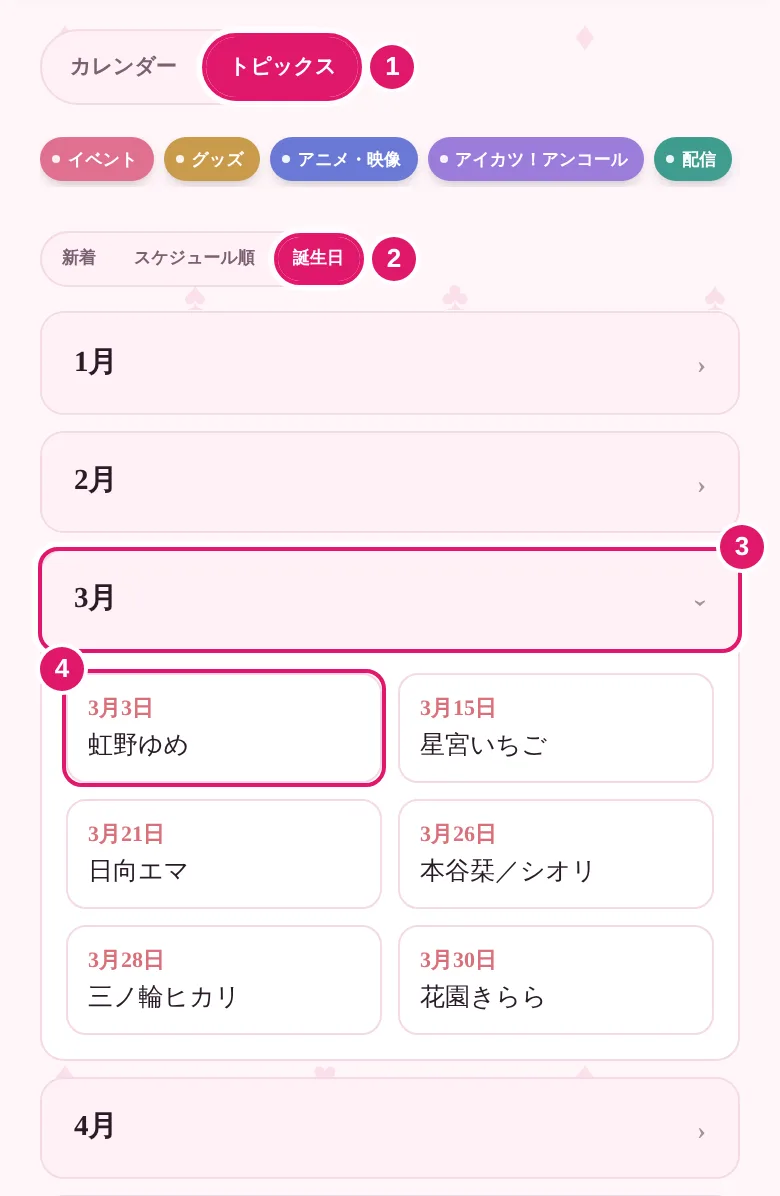
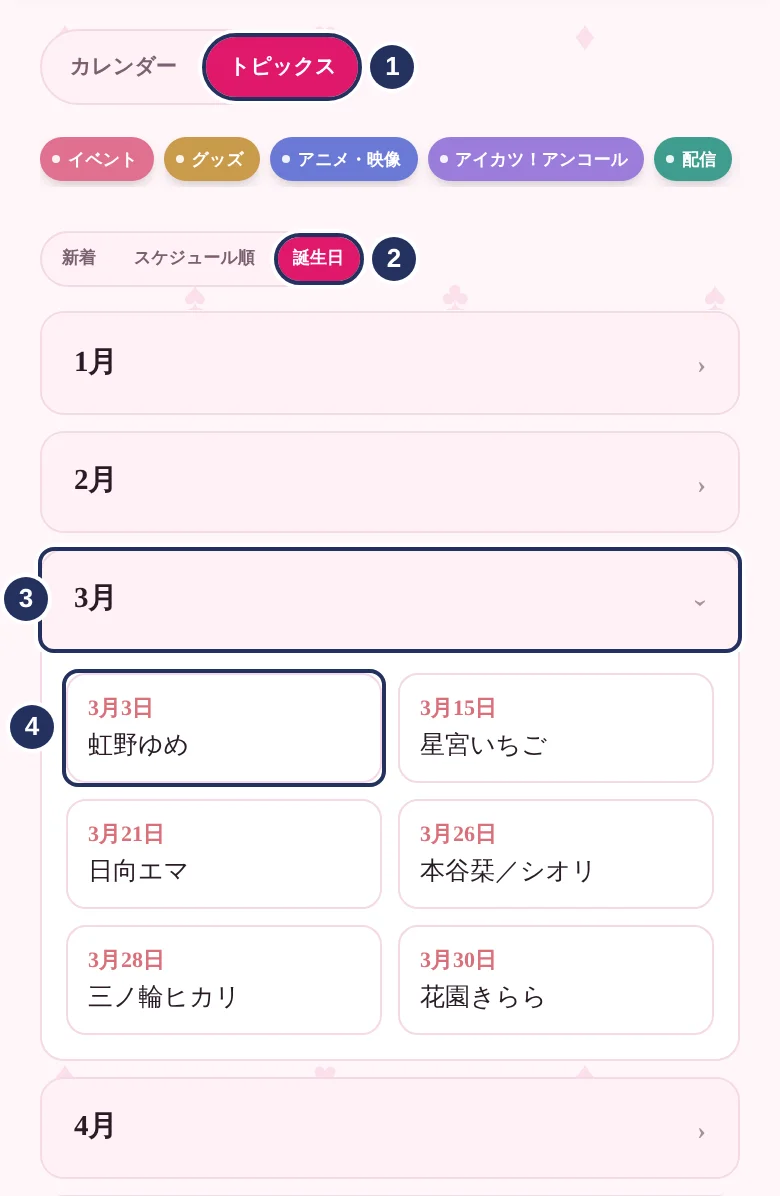
使い方ページの図解を撮り直し、番号の付け方を分かりやすく変更
- 番号は1か所に1つにし、指す場所に重ねず外側に置く
- 印の色をサイトのピンクと区別できる濃い紺に変更
- 囲む範囲を点・件数・今日の丸など見せたい部分だけに絞る
- カレンダーの図を上部の操作とマス目の2枚に分けて拡大

Claude-Session: https://claude.ai/code/session_0144vL8na9zcnHeynjBw35UU

diff --git a/tools/usage-capture/cap-static.js b/tools/usage-capture/cap-static.js
@@ -6,45 +6,36 @@ const top = async (p, sel, off=70) => { await p.evaluate(([s,o])=>{ const e=docu
 (async () => {
   const b = await chromium.launch();
   const { p } = await newPage(b);
-  // A: overview
+  // C: カレンダー上部の操作（1つずつ番号を付ける）
+  await tagCell(p, 14, 'um14'); await tagCell(p, 15, 'um15'); await tagCell(p, 19, 'um19'); await tagCell(p, 17, 'um17'); await tagCell(p, 20, 'um20'); await tagCell(p, 28, 'um28');
+  await top(p, '.cal-nav-row', 110);
+  await p.evaluate(()=>{ document.getElementById('legendCal').style.visibility='hidden'; });
   await mark(p, [
-    {sel:'#todayBadges .today-pill', n:1, pad:3, round:true}, {sel:'#searchToggleBtn', n:2, round:true, pad:3, corner:'bl'}, {sel:'#menuBtn', n:3, round:true, pad:3, corner:'bl'},
-    {sel:'#brandHome', n:4}, {sel:'#lastUpdated', n:5, pad:3}, {sel:'#mainTabs', n:6, round:true}, {sel:'#exportOpenBtn', n:7, round:true}, {sel:'#legendCal', n:8, pad:3},
+    {sel:'#prevMonth', n:1, pad:0, round:true, corner:'t'}, {sel:'#calMonthLabel', n:2, pad:2, corner:'t'},
+    {sel:'#nextMonth', n:3, pad:0, round:true, corner:'t'}, {sel:'.cal-view-toggle', n:4, round:true, pad:2, corner:'t'},
   ]);
-  await p.screenshot({path:O+'/overview.png', clip:{x:0,y:0,width:390,height:340}});
+  const nv = await p.evaluate(()=>{ const a=document.querySelector('.cal-nav-row').getBoundingClientRect(), l=document.getElementById('prevMonth').getBoundingClientRect(); return {x:l.left-16, y:a.top-36, h:a.height+48}; });
+  await p.screenshot({path:O+'/calendar-nav.png', clip:{x:nv.x,y:nv.y,width:390-nv.x,height:nv.h}});
   await clear(p);
-  // B: menu
-  await p.click('#menuBtn'); await p.waitForTimeout(400);
-  await p.screenshot({path:O+'/menu.png', clip:{x:0,y:0,width:390,height:560}});
-  await p.keyboard.press('Escape'); await p.waitForTimeout(200);
-  // C: calendar
-  await tagCell(p, 8, 'umDots'); await tagCell(p, 28, 'umBday');
-  await top(p, '.cal-nav-row', 60);
+  await p.evaluate(()=>{ document.getElementById('legendCal').style.visibility=''; });
+  // C2: カレンダーのマス（火〜土の下3週を切り出して大きく見せる）
+  await top(p, '#um15', 120);
   await mark(p, [
-    {sel:'#prevMonth', n:1, pad:0, round:true, corner:'l'}, {sel:'#nextMonth', n:1, pad:0, round:true, corner:'r'}, {sel:'#calMonthLabel', n:2, pad:2},
-    {sel:'.cal-view-toggle', n:3, round:true, pad:3}, {sel:'#umDots', n:4, pad:-1}, {sel:'#umBday', n:5, pad:-1},
+    {sel:'#um14 .dots', n:1, pad:3, text:true, round:true, corner:'r'}, {sel:'#um17 .more', n:2, pad:2, text:true, corner:'r', dy:4},
+    {sel:'#um20 .dot-emoji-mini', n:3, pad:2, corner:'l'}, {sel:'#um28 .num', n:4, pad:2, round:true, corner:'l'},
   ]);
-  const g = await p.evaluate(()=>{ const a=document.querySelector('.cal-nav-row').getBoundingClientRect(), z=document.querySelector('.cal-grid').getBoundingClientRect(); return {y:a.top-14, h:z.bottom-a.top+28}; });
-  await p.screenshot({path:O+'/calendar.png', clip:{x:0,y:g.y,width:390,height:g.h}});
+  const gr = await p.evaluate(()=>{ const c=document.querySelector('#um19').getBoundingClientRect(), t=document.querySelector('#um15').getBoundingClientRect(), b=document.querySelector('#um28').getBoundingClientRect(), g=document.querySelector('.cal-grid').getBoundingClientRect(); return {x:c.left-6, y:t.top-6, w:g.right-c.left+6, h:b.bottom-t.top+12}; });
+  await p.screenshot({path:O+'/calendar-grid.png', clip:{x:gr.x,y:gr.y,width:gr.w,height:gr.h}});
   await clear(p);
-  // D: day panel + item detail (gashapon reservation on 10/20)
-  await tagCell(p, 20, 'um20'); await p.click('#um20'); await p.waitForTimeout(200);
-  const it = p.locator('#dayPanelBody .item').filter({hasText:'予約開始'}).first();
-  await it.locator('.item-head').click(); await p.waitForTimeout(200);
-  await top(p, '#dayPanel', 64);
-  await p.evaluate(()=>{ const i=[...document.querySelectorAll('#dayPanelBody .item')].find(x=>x.textContent.includes('予約開始')); i.id='umItem'; });
-  await mark(p, [
-    {sel:'#umItem .cat', n:1, pad:3}, {sel:'#umItem .eventline', n:2, pad:3}, {sel:'#umItem .add-cal-toggle', n:3, round:true, pad:3, corner:'l'}, {sel:'#umItem .src', n:4, pad:3, corner:'l'},
-  ]);
-  const d = await p.evaluate(()=>{ const r=document.getElementById('umItem').getBoundingClientRect(), h=document.getElementById('dayPanel').getBoundingClientRect(); return {y:h.top-8, h:r.bottom-h.top+18}; });
-  await p.screenshot({path:O+'/item.png', clip:{x:0,y:d.y,width:390,height:d.h}});
-  await clear(p);
-  // E: topics (新着)
+  // E: トピックス（新着）
   await p.click('#tab-topics-btn'); await p.waitForTimeout(200);
   await top(p, '.tabs-row', 60);
-  await mark(p, [ {sel:'#legendTopics', n:1, pad:3}, {sel:'.topics-toolbar .sort-toggle', n:2, round:true, pad:3}, {sel:'#topicsPaginationTop', n:3, pad:2}, {sel:'#topicsList .new-badge', n:4, pad:2, corner:'r'} ]);
-  const t = await p.evaluate(()=>document.querySelector('.tabs-row').getBoundingClientRect().top-12);
-  await p.screenshot({path:O+'/topics.png', clip:{x:0,y:t,width:390,height:640}});
+  await mark(p, [
+    {sel:'#legendTopics', n:1, pad:2, corner:'tre'}, {sel:'.topics-toolbar .sort-toggle', n:2, round:true, pad:2, corner:'r'},
+    {sel:'#topicsPaginationTop', n:3, pad:2, corner:'l'}, {sel:'#topicsList .new-badge', n:4, pad:2, round:true, corner:'r'},
+  ]);
+  const t = await p.evaluate(()=>{ const a=document.querySelector('.tabs-row').getBoundingClientRect(), n=document.querySelector('#topicsList .new-badge').closest('.item').getBoundingClientRect(); return {y:a.top-12, h:n.bottom-a.top+16}; });
+  await p.screenshot({path:O+'/topics.png', clip:{x:0,y:t.y,width:390,height:t.h}});
   await clear(p);
   // F: birthday（トピックス→誕生日→月を開く、の流れが分かるようタブから写す）
   await p.click('#sortBirthdayBtn'); await p.waitForTimeout(200);
@@ -52,17 +43,17 @@ const top = async (p, sel, off=70) => { await p.evaluate(([s,o])=>{ const e=docu
   await top(p, '.tabs-row', 62);
   await mark(p, [
     {sel:'#tab-topics-btn', n:1, pad:2, round:true, corner:'r'}, {sel:'#sortBirthdayBtn', n:2, pad:2, round:true, corner:'r'},
-    {sel:'#umMar summary', n:3, pad:2, corner:'tr'}, {sel:'#umMar .bday-card', n:4, pad:2, corner:'tl'},
+    {sel:'#umMar summary', n:3, pad:2, corner:'l'}, {sel:'#umMar .bday-card', n:4, pad:2, corner:'l'},
   ]);
   const bt = await p.evaluate(()=>{ const a=document.querySelector('.tabs-row').getBoundingClientRect(), m=document.getElementById('umMar').nextElementSibling.getBoundingClientRect(); return {y:a.top-14, h:m.bottom-a.top+24}; });
   await p.screenshot({path:O+'/birthday.png', clip:{x:0,y:bt.y,width:390,height:bt.h}});
   // G: export dialog
   await p.click('#tab-cal-btn'); await p.click('#exportOpenBtn'); await p.waitForTimeout(200);
-  await mark(p, [ {sel:'#exportPresets', n:1, round:true, pad:3}, {sel:'.export-range', n:2, pad:3}, {sel:'#exportCats', n:3, pad:3}, {sel:'.export-checks', n:4, pad:3}, {sel:'#exportCount', n:5, pad:3}, {sel:'#exportDownloadBtn', n:6, round:true, pad:3, corner:'tl'} ]);
+  await mark(p, [ {sel:'#exportPresets', n:1, round:true, pad:2, corner:'l'}, {sel:'.export-range', n:2, pad:2, corner:'l'}, {sel:'#exportCats', n:3, pad:2, corner:'l'}, {sel:'.export-checks', n:4, pad:2, corner:'l'}, {sel:'#exportCount', n:5, pad:2, corner:'l'}, {sel:'#exportDownloadBtn', n:6, round:true, pad:2, corner:'r'} ]);
   // markers are in body (below the top layer) -> move them into the dialog
   await p.evaluate(()=>{ const dlg=document.getElementById('exportDialog'), r=dlg.getBoundingClientRect(); dlg.style.overflow='visible';
     document.querySelectorAll('.um-ring,.um-num').forEach(e=>{ e.style.left=(parseFloat(e.style.left)-scrollX-r.left-1)+'px'; e.style.top=(parseFloat(e.style.top)-scrollY-r.top-1)+'px'; dlg.appendChild(e); }); });
-  const er = await p.evaluate(()=>{ const r=document.getElementById('exportDialog').getBoundingClientRect(); return {x:r.left-14,y:r.top-14,width:r.width+28,height:r.height+28}; });
+  const er = await p.evaluate(()=>{ const r=document.getElementById('exportDialog').getBoundingClientRect(); return {x:r.left-16,y:r.top-14,width:r.width+32,height:r.height+28}; });
   await p.screenshot({path:O+'/export.png', clip:er});
   await b.close();
 })();

diff --git a/usage.html b/usage.html
@@ -74,7 +74,7 @@
   ol.marks{ list-style:none; margin:0; padding:0; font-size:14px; }
   ol.marks li{ display:flex; gap:10px; padding:5px 0; }
   ol.marks .m{
-    flex:none; width:22px; height:22px; margin-top:2px; border-radius:50%; background:#e0176c; color:#fff;
+    flex:none; width:22px; height:22px; margin-top:2px; border-radius:50%; background:#24315e; color:#fff; box-shadow:0 0 0 2px #fff;
     font-size:12px; font-weight:700; display:inline-flex; align-items:center; justify-content:center;
   }
   .chips{ display:flex; flex-wrap:wrap; gap:6px; margin:4px 0 0; }
@@ -127,24 +127,34 @@
     <h2><span class="num">1</span>カレンダー</h2>
     <div class="fig">
       <figure>
-        <img src="images/usage/calendar.webp" width="780" height="832" alt="カレンダーの各部分に番号を付けた図" loading="lazy">
+        <img src="images/usage/calendar-nav.webp" width="594" height="168" alt="カレンダー上部の操作ボタンに番号を付けた図" loading="lazy">
       </figure>
       <div class="notes">
         <ol class="marks">
-          <li><span class="m">1</span><span>前後の月へ移動</span></li>
+          <li><span class="m">1</span><span>前の月へ</span></li>
           <li><span class="m">2</span><span>押すと年月を選べます</span></li>
-          <li><span class="m">3</span><span>月表示／週表示の切り替え</span></li>
-          <li><span class="m">4</span><span>点の色が予定の種類です
+          <li><span class="m">3</span><span>次の月へ</span></li>
+          <li><span class="m">4</span><span>月表示／週表示の切り替え</span></li>
+        </ol>
+      </div>
+    </div>
+    <div class="fig">
+      <figure>
+        <img src="images/usage/calendar-grid.webp" width="610" height="372" alt="カレンダーの日付のマスに番号を付けた図" loading="lazy">
+      </figure>
+      <div class="notes">
+        <ol class="marks">
+          <li><span class="m">1</span><span>点の色が予定の種類です
             <span class="chips">
               <span class="chip" style="--dot:var(--c-event)">イベント</span>
               <span class="chip" style="--dot:var(--c-goods)">グッズ</span>
               <span class="chip" style="--dot:var(--c-anime)">アニメ・映像</span>
               <span class="chip" style="--dot:var(--c-game)">アイカツ！アンコール</span>
               <span class="chip" style="--dot:var(--c-stream)">配信</span>
-              <span class="chip emoji" style="--dot:var(--c-birthday)">🎂 誕生日</span>
-              <span class="chip emoji" style="--dot:var(--c-anniversary)">🎉 周年</span>
             </span></span></li>
-          <li><span class="m">5</span><span>今日</span></li>
+          <li><span class="m">2</span><span>表示しきれない予定の件数</span></li>
+          <li><span class="m">3</span><span>🎂は誕生日、🎉は周年</span></li>
+          <li><span class="m">4</span><span>今日</span></li>
         </ol>
       </div>
     </div>
@@ -171,7 +181,7 @@
     <p>情報をリストで見られます。</p>
     <div class="fig">
       <figure>
-        <img src="images/usage/topics.webp" width="780" height="1280" alt="トピックス画面の各部分に番号を付けた図" loading="lazy">
+        <img src="images/usage/topics.webp" width="780" height="1048" alt="トピックス画面の各部分に番号を付けた図" loading="lazy">
       </figure>
       <div class="notes">
         <ol class="marks">
@@ -211,7 +221,7 @@
         <video src="images/usage/video-export.mp4" poster="images/usage/video-export-poster.webp" width="600" height="1298" autoplay muted loop playsinline preload="metadata" aria-label="まとめてカレンダーに追加の画面で期間と内容を選んでダウンロードする動画"></video>
       </figure>
       <figure>
-        <img src="images/usage/export.webp" width="760" height="1352" alt="まとめてカレンダーに追加の画面に番号を付けた図" loading="lazy">
+        <img src="images/usage/export.webp" width="768" height="1352" alt="まとめてカレンダーに追加の画面に番号を付けた図" loading="lazy">
       </figure>
       <div class="notes">
         <ol class="marks">

diff --git a/tools/usage-capture/cap-common.js b/tools/usage-capture/cap-common.js
@@ -15,19 +15,23 @@ async function newPage(b, opts={}){
   p.on('pageerror', e=>console.log('PAGEERR', e.message));
   await p.goto(PAGE); await p.waitForSelector('.add-cal',{state:'attached'});
   await p.addStyleTag({content:`
-    .um-ring{position:absolute;border:2.5px solid #e0176c;border-radius:10px;pointer-events:none;z-index:9999;box-shadow:0 0 0 3px rgba(255,255,255,.85)}
-    .um-num{position:absolute;width:22px;height:22px;border-radius:50%;background:#e0176c;color:#fff;font:700 13px/22px "Hiragino Sans",sans-serif;text-align:center;z-index:10000;box-shadow:0 0 0 2px #fff;pointer-events:none}
+    .um-ring{position:absolute;border:2px solid #24315e;border-radius:8px;pointer-events:none;z-index:9999;box-shadow:0 0 0 2px rgba(255,255,255,.9)}
+    .um-num{position:absolute;width:22px;height:22px;border-radius:50%;background:#24315e;color:#fff;font:700 13px/22px "Hiragino Sans",sans-serif;text-align:center;z-index:10000;box-shadow:0 0 0 2px #fff;pointer-events:none}
     .um-tap{position:fixed;width:34px;height:34px;margin:-17px 0 0 -17px;border-radius:50%;background:rgba(224,23,108,.35);border:2px solid rgba(224,23,108,.8);pointer-events:none;z-index:100000;animation:umtap .6s ease-out forwards}
     @keyframes umtap{from{transform:scale(.5);opacity:1}to{transform:scale(1.4);opacity:0}}`});
   return { ctx, p };
 }
-// marks: [{sel, n, pad, nth, corner:'tl'|'tr'|'l'|'r'}]
+// marks: [{sel, n, pad, nth, round, text, corner, dx, dy}]
+// 番号は指す場所に重ねないよう外側に置く。corner: 't'(上中央) 'b'(下中央) 'l'(左) 'r'(右) 'tl' 'tr' 'bl' 'tre'(上・右寄せ)
+// 印の色はサイトのピンクと区別できるよう濃い紺にしている
 async function mark(p, marks){
   await p.evaluate((marks)=>{
     document.querySelectorAll('.um-ring,.um-num').forEach(e=>e.remove());
     marks.forEach(m=>{
       const els=document.querySelectorAll(m.sel); const el=els[m.nth||0]; if(!el){ console.log('nomark',m.sel); return; }
-      const r=el.getBoundingClientRect(), pad=m.pad==null?4:m.pad, sx=scrollX, sy=scrollY;
+      // text:true は要素の幅ではなく文字の部分だけを囲む
+      let r=el.getBoundingClientRect(); if(m.text){ const rg=document.createRange(); rg.selectNodeContents(el); r=rg.getBoundingClientRect(); }
+      const pad=m.pad==null?4:m.pad, sx=scrollX, sy=scrollY;
       const ring=document.createElement('div'); ring.className='um-ring';
       Object.assign(ring.style,{left:(r.left-pad+sx)+'px',top:(r.top-pad+sy)+'px',width:(r.width+pad*2)+'px',height:(r.height+pad*2)+'px'});
       if(m.round) ring.style.borderRadius='999px';
@@ -36,6 +40,9 @@ async function mark(p, marks){
       if(c==='tl'){x=r.left-pad-11;y=r.top-pad-11} else if(c==='tr'){x=r.right+pad-11;y=r.top-pad-11}
       else if(c==='l'){x=r.left-pad-26;y=r.top+r.height/2-11} else if(c==='r'){x=r.right+pad+4;y=r.top+r.height/2-11}
       else if(c==='bl'){x=r.left-pad-11;y=r.bottom+pad-11}
+      else if(c==='t'){x=r.left+r.width/2-11;y=r.top-pad-26} else if(c==='b'){x=r.left+r.width/2-11;y=r.bottom+pad+4}
+      else if(c==='tre'){x=r.right+pad-22;y=r.top-pad-26}
+      x+=m.dx||0; y+=m.dy||0;
       x=Math.max(2,Math.min(x,innerWidth-24));
       Object.assign(num.style,{left:(x+sx)+'px',top:(y+sy)+'px'});
       document.body.append(ring,num);
